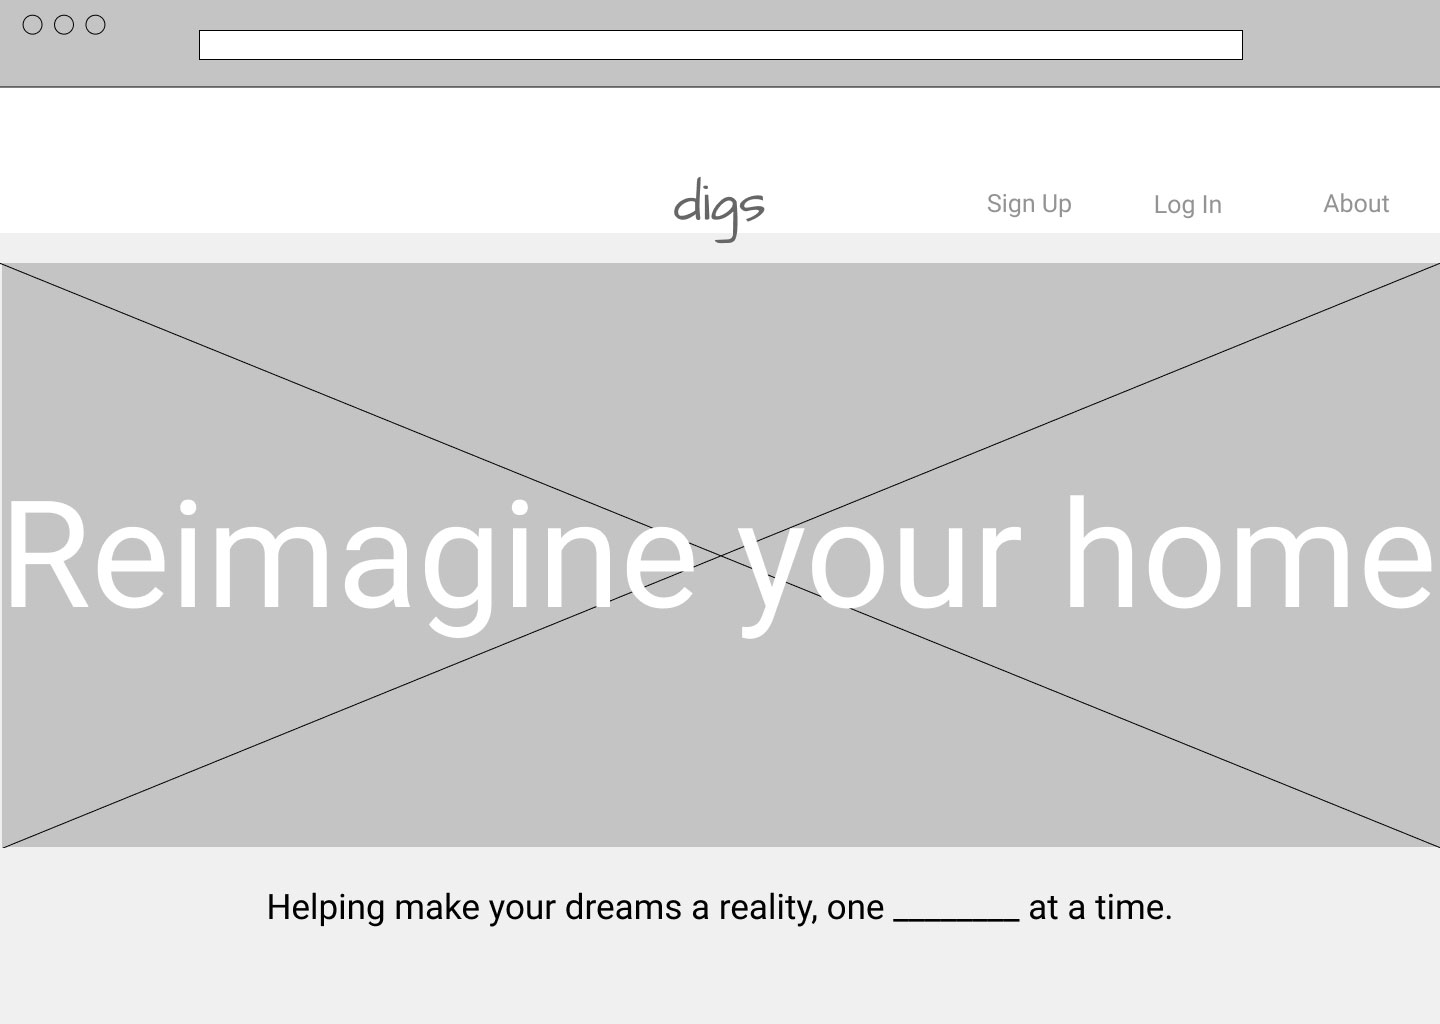
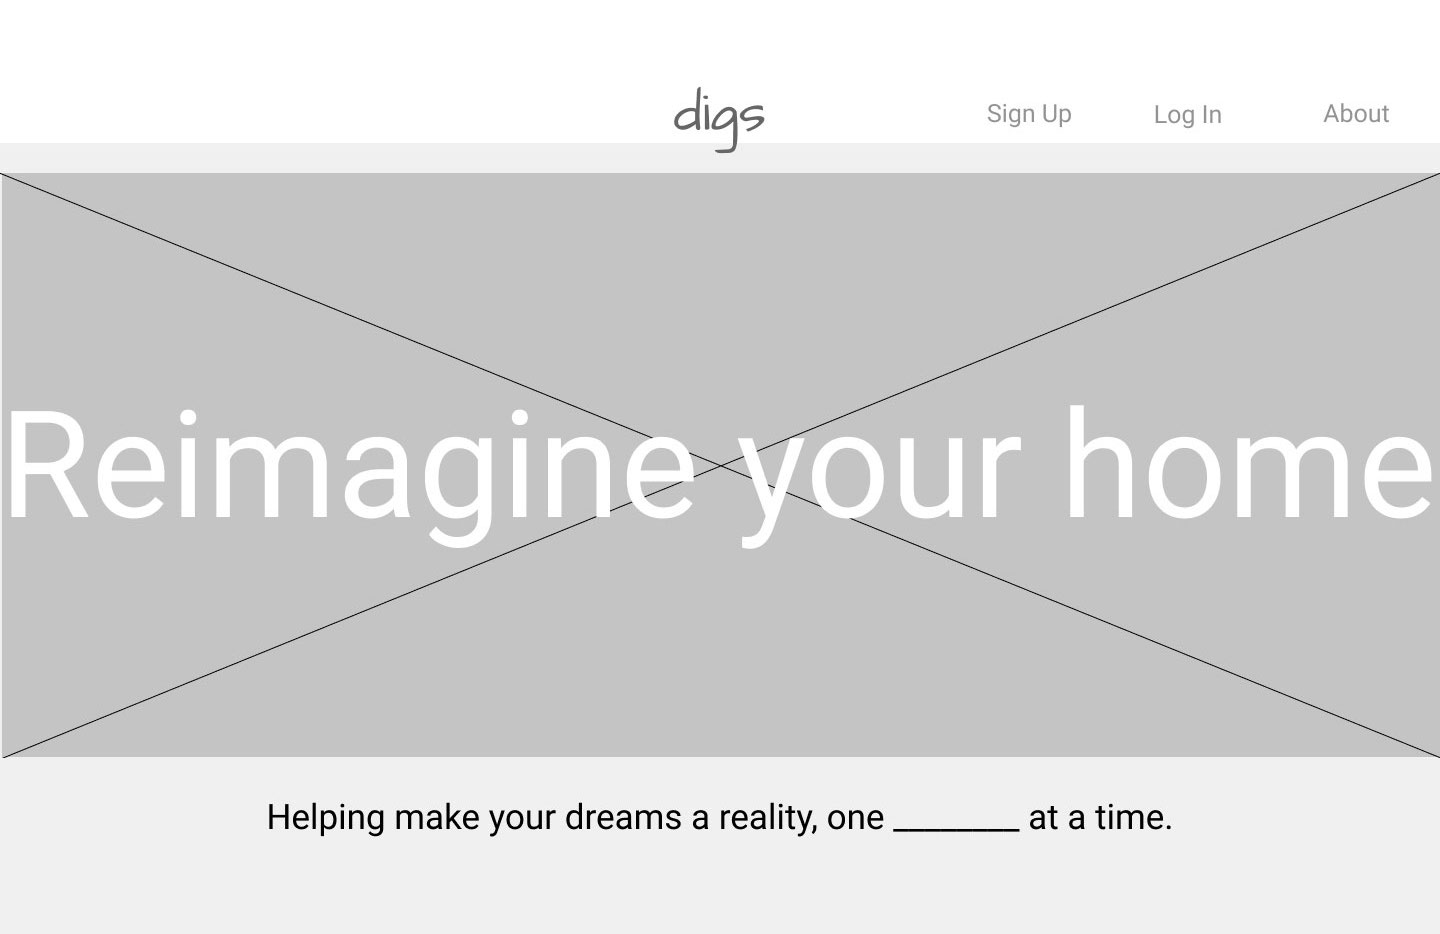
add wireframe revision

diff --git a/project.html b/project.html
@@ -620,8 +620,11 @@
 
       <div class="prototype">
         <h4>Clickable Prototype</h4>
+        <h5>Before testing:</h5>
         <img src="images/Digs/wire-home.jpg" class="proto1" alt="homepage">
-        <img src="images/Digs/wire-dash.jpg" class="proto2" alt="dashboard">
+
+        <h5>After testing:</h5>
+        <img src="images/Digs/home-revised-wire.jpg" alt="revised-wireframe">
 
         <button onClick="window.location.href = 'https://invis.io/CYPY9GEDUGM'" type="button" name="view" class="view-button">check it out</button>
         <h5>Usability Test Results</h5>
